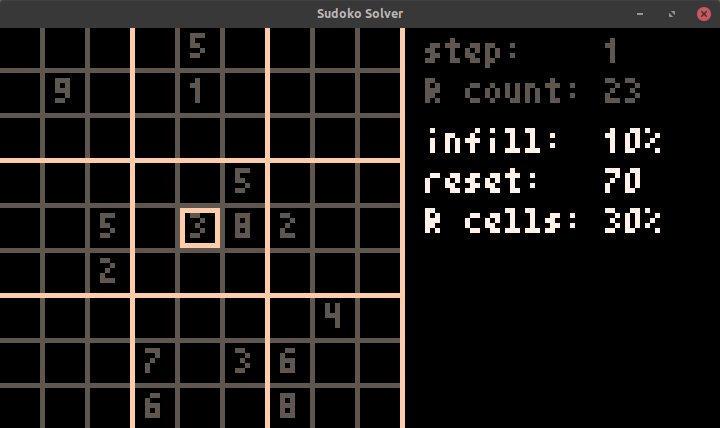
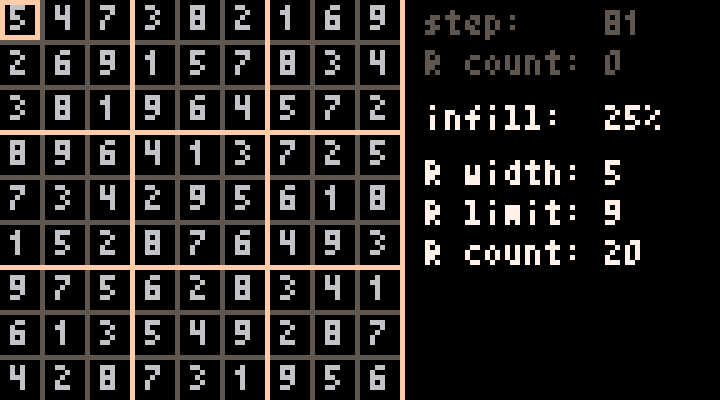
cleaned up oscillation detection in sudoku solver

diff --git a/games/sudoko_solver.py b/games/sudoko_solver.py
@@ -137,6 +137,12 @@ class Board:
             for cell, locked in zip(self._data, self._locked)
         )
 
+    def diff(self, other: Board) -> int:
+        return sum(
+            abs(a - b)
+            for a, b in zip(self, other)
+        )
+
     @property
     def candidates(self) -> Tuple[(Set[int],)*81]:
         M = set(range(1, 10))
@@ -163,10 +169,12 @@ class Board:
 class SolverBf:
     _running: bool = field(init=False, default=False)
     _stack: List = field(init=False, default_factory=list)
+    _iterations: int = field(init=False, default=0)
 
     def start(self, board: Board):
         self._stack = [self._solve(board)]
         self._running = True
+        self._iterations = 0
 
     def stop(self):
         self._running = False
@@ -174,6 +182,10 @@ class SolverBf:
     @property
     def running(self):
         return self._running
+
+    @property
+    def iterations(self):
+        return self._iterations
     
     def update(self) -> Board:
         if not self._stack:
@@ -189,6 +201,8 @@ class SolverBf:
             self._stack.append(self._solve(board, idx))
         else:
             self._stack.pop(-1)
+
+        self._iterations += 1
         return board
 
     @staticmethod
@@ -207,17 +221,13 @@ class SolverBf:
 
 @dataclass
 class SolverDyn:
-    _initial_board: Board = field(init=False, default_factory=Board)
     _running: bool = field(init=False, default=False)
     _stack: List = field(init=False, default_factory=list)
     _memo: List = field(init=False, default_factory=list)
     _iterations: int = field(init=False, default=0)
 
     def start(self, board: Board, reset_after: int = -1):
-        self._initial_board = board
         self._stack = [self._solve(board)]
-        self._reset_after = reset_after
-        self._reset_counter = 0
         self._memo = []
         self._running = True
         self._iterations = 0
@@ -307,11 +317,12 @@ class App:
     _fill: float = field(init=False, default=0.25)
 
     # TODO: change from naive reset to detecting oscillations
-    _reset_after_count: int = field(init=False, default=100)
-    _reset_cell_fraction: float= field(init=False, default=0.2)
+    _reset_compare_width: int = field(init=False, default=5)
+    _reset_diff_limit: int = field(init=False, default=9)
+    _reset_count_limit: int = field(init=False, default=20)
 
+    _reset_compare: List[Board] = field(init=False, default_factory=list)
     _reset_counter: int = field(init=False, default=0)
-    _reset_cells: float = field(init=False, default=0)
 
     def run(self):
         pyxel.init(
@@ -404,18 +415,23 @@ class App:
         )
         col = 5 + 2 * (not self.solver.running)
         pyxel.text(
-            BOARD_WIDTH + 5, 2 * pyxel.FONT_HEIGHT + 8,
+            BOARD_WIDTH + 5, 2 * pyxel.FONT_HEIGHT + 9,
             f"infill:  {self._fill:.0%}",
             col
         )
         pyxel.text(
-            BOARD_WIDTH + 5, 3 * pyxel.FONT_HEIGHT + 10,
-            f"reset:   {self._reset_after_count}",
+            BOARD_WIDTH + 5, 3 * pyxel.FONT_HEIGHT + 14,
+            f"R width: {self._reset_compare_width}",
             col
         )
         pyxel.text(
-            BOARD_WIDTH + 5, 4 * pyxel.FONT_HEIGHT + 12,
-            f"R cells: {self._reset_cell_fraction:.0%}",
+            BOARD_WIDTH + 5, 4 * pyxel.FONT_HEIGHT + 16,
+            f"R limit: {self._reset_diff_limit}",
+            col
+        )
+        pyxel.text(
+            BOARD_WIDTH + 5, 5 * pyxel.FONT_HEIGHT + 18,
+            f"R count: {self._reset_count_limit}",
             col
         )
 
@@ -434,12 +450,15 @@ class App:
                 self.solver.stop()
             else:
                 self.board = board
-                if board.to_fill <= self._reset_cells:
-                    self._reset_counter += 1
-                    if self._reset_counter >= self._reset_after_count:
-                        self.solver.start(self.solver._initial_board)
-                else:
-                    self._reset_counter = 0
+                self._reset_compare.append(board)
+                if self.solver.iterations >= self._reset_compare_width:
+                    diff = self._reset_compare[-self._reset_compare_width].diff(board)
+                    if diff <= self._reset_diff_limit:
+                        self._reset_counter += 1
+                        if self._reset_counter >= self._reset_count_limit:
+                            self.solver.start(self._reset_compare[0])
+                            self._reset_counter = 0
+                            self._reset_compare = [self._reset_compare[0]]
         else:
             movement = (
                 (pyxel.btnp(pyxel.KEY_W) << 0) |
@@ -472,30 +491,37 @@ class App:
 
             if pyxel.btnp(pyxel.KEY_SPACE):
                 self.solver.start(self.board)
-                self._reset_cells = self.board.to_fill * self._reset_cell_fraction
+                self._reset_counter = 0
+                self._reset_compare = [self.board]
 
             if pyxel.btnp(pyxel.KEY_BACKSPACE):
                 for i in range(81):
                     if not self.board.is_locked(i):
                         self.board = self.board.set(i, 0)
 
-            fill_input = pyxel.btnp(pyxel.KEY_KP_4) << 1 | pyxel.btnp(pyxel.KEY_KP_1)
+            fill_input = pyxel.btnp(pyxel.KEY_UP) << 1 | pyxel.btnp(pyxel.KEY_DOWN)
             if fill_input == 0b01:
                 self._fill = max(0, self._fill - 0.05)
             elif fill_input == 0b10:
                 self._fill = min(1, self._fill + 0.05)
 
-            reset_after_input = pyxel.btnp(pyxel.KEY_KP_5) << 1 | pyxel.btnp(pyxel.KEY_KP_2)
-            if reset_after_input == 0b01:
-                self._reset_after_count = max(0, self._reset_after_count - 1)
-            elif reset_after_input == 0b10:
-                self._reset_after_count = self._reset_after_count + 1
+            compare_width_input = pyxel.btnp(pyxel.KEY_KP_4) << 1 | pyxel.btnp(pyxel.KEY_KP_1)
+            if compare_width_input == 0b01:
+                self._reset_compare_width = max(0, self._reset_compare_width - 1)
+            elif compare_width_input == 0b10:
+                self._reset_compare_width = self._reset_compare_width + 1
 
-            reset_after_input = pyxel.btnp(pyxel.KEY_KP_6) << 1 | pyxel.btnp(pyxel.KEY_KP_3)
-            if reset_after_input == 0b01:
-                self._reset_cell_fraction = max(0, self._reset_cell_fraction - 0.05)
-            elif reset_after_input == 0b10:
-                self._reset_cell_fraction = min(1, self._reset_cell_fraction + 0.05)
+            reset_diff_limit = pyxel.btnp(pyxel.KEY_KP_5) << 1 | pyxel.btnp(pyxel.KEY_KP_2)
+            if reset_diff_limit == 0b01:
+                self._reset_diff_limit = max(0, self._reset_diff_limit - 1)
+            elif reset_diff_limit == 0b10:
+                self._reset_diff_limit = self._reset_diff_limit + 1
+
+            reset_count_limit = pyxel.btnp(pyxel.KEY_KP_6) << 1 | pyxel.btnp(pyxel.KEY_KP_3)
+            if reset_count_limit == 0b01:
+                self._reset_count_limit = max(0, self._reset_count_limit - 1)
+            elif reset_count_limit == 0b10:
+                self._reset_count_limit = self._reset_count_limit + 1
 
 if __name__ == '__main__':
     App().run()

diff --git a/README.md b/README.md
@@ -15,16 +15,19 @@ This is small collection of games written in python using [pyxel](https://github
 * `WASD` to move the cursor
 * `0, ..., 9` to mark selected cell
 * `space` to start solve
-* `4, 1` to set the riddle fill percentage
+* `UP, DOWN` to set the riddle fill percentage
 * `enter` to generate riddle
+* `numpad 4, 1` to set `R width`
+* `numpad 5, 2` to set `R limit`
+* `numpad 6, 3` to set `R count`
 
 ### Approach
 The general apporach used in this solver is a brute-force solve using back-tracking enhanced with a bit of domain knowledge such as what can actually go into any given cell at any point in time and that cells with less entry candidates are to be preferred/filled first.
 
-This approach suffers from oscillations from time to time, by which I mean that the the back-tracking can get stuck in branch of the move-tree, and takes a very long time to get back out. To remedy this I added the ability to automatically restart the solve in the case it gets stuck below a given fill percentage for a given number of iterations.
-
-### TODO
-* Investigate a cleaner/more "determenistic" way to detect oscillations
+This approach suffers from oscillations from time to time, by which I mean that the the back-tracking can get stuck in branch of the move-tree, and takes a very long time to get back out. The simplest remedy to this is to restart the solve once you decide you've tried around enough. I implemented this idea as follows:
+1. get the total board difference between the n-th and the (n-`R width`)-th iterations
+2. if the difference surpasses a certain threshold (`R limit`) add 1 to the reset counter
+3. once you've detected a certain amount (`R count`) of such reset-conditions, restart the solve
 
 ## Lgame
 ![lgame](.images/lgame.png)
